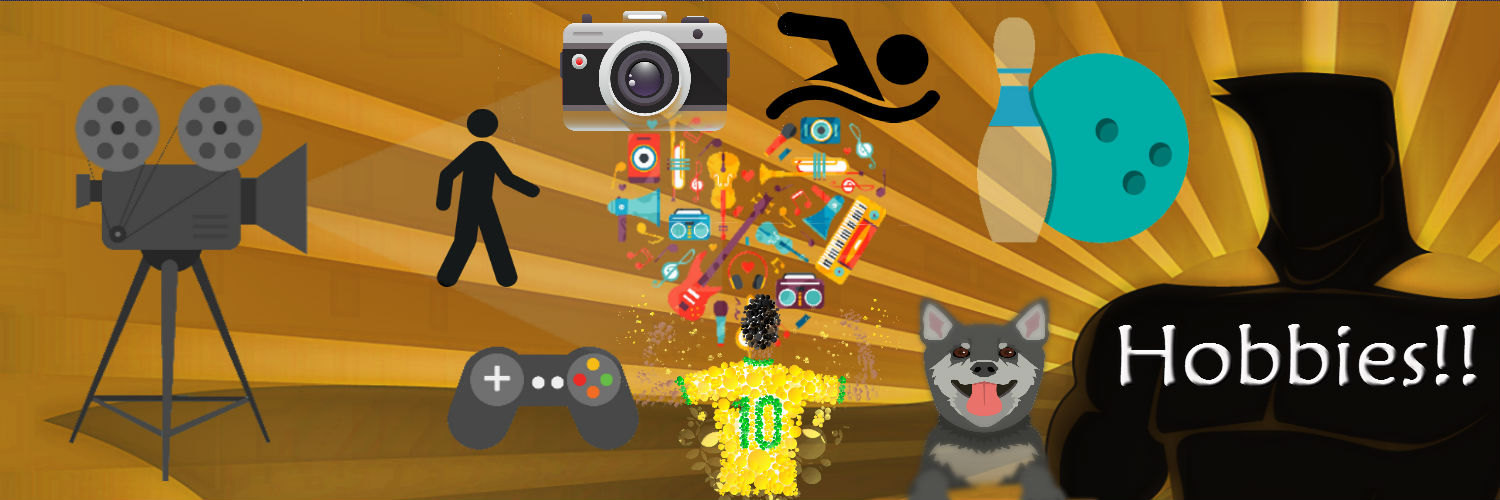
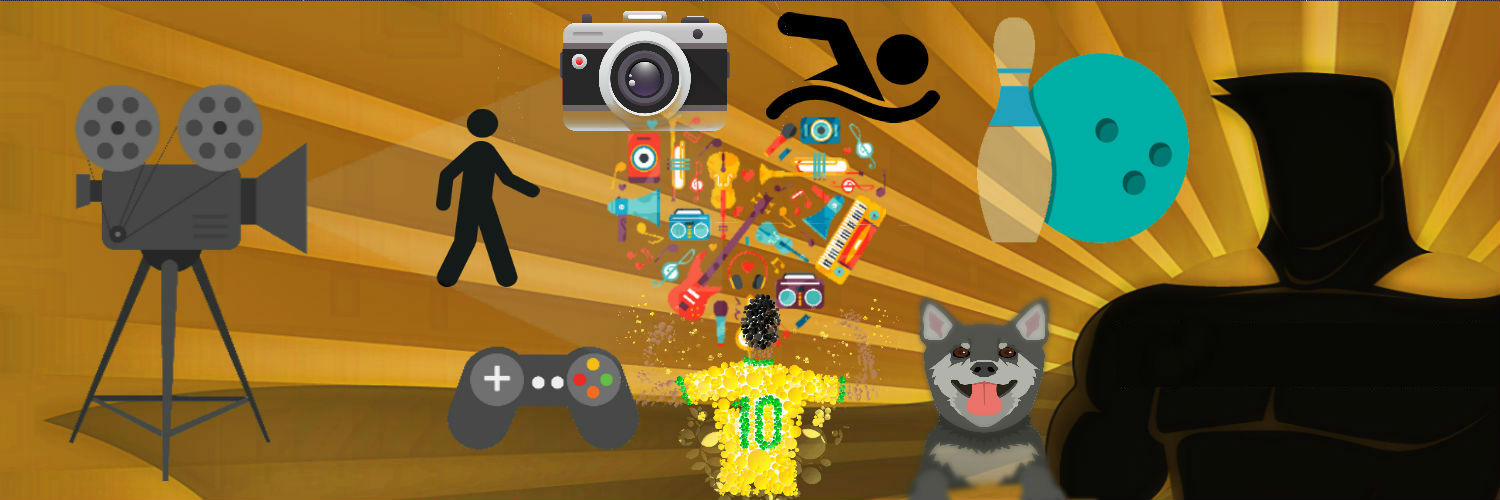
Nueva Imagen

Changed region(s): [[0.736, 0.63, 0.9813, 0.78]]

diff --git a/WebContent/index.html b/WebContent/index.html
@@ -98,21 +98,25 @@
                 </div>
             </div>
             <div class="row text-center">
-                <div class="col-md-4">
-                    <!--<span class="fa-stack fa-4x">
+                    <!--
+                    	 <div class="col-md-4">
+                     	<span class="fa-stack fa-4x">
                         <i class="fa fa-circle fa-stack-2x text-primary"></i>
                         <i class="fa fa-shopping-cart fa-stack-1x fa-inverse"></i>
                     </span>  -->
-                    <h4 class="service-heading">E-Commerce</h4>
-                    <p class="text-muted">Lorem ipsum dolor sit amet, consectetur adipisicing elit. Minima maxime quam architecto quo inventore harum ex magni, dicta impedit.</p>
+                    <img class="img-circle" height="200" width="200" src="http://www.inder.gov.co/images/285_pp5g1v8hva_Caminadas%20May-09%20Small.JPG">
+                    <!-- <h4 class="service-heading">E-Commerce</h4> -->
+                    <p class="text-muted">Las Caminadas son una práctica colectiva o individual que consiste en recorrer a pie territorios rurales, urbanos, de reserva o significado ambiental.</p>
                 </div>
                 <div class="col-md-4">
+                    <!-- 
                     <span class="fa-stack fa-4x">
                         <i class="fa fa-circle fa-stack-2x text-primary"></i>
                         <i class="fa fa-laptop fa-stack-1x fa-inverse"></i>
                     </span>
-                    <h4 class="service-heading">Responsive Design</h4>
-                    <p class="text-muted">Lorem ipsum dolor sit amet, consectetur adipisicing elit. Minima maxime quam architecto quo inventore harum ex magni, dicta impedit.</p>
+                     -->
+                    <h4 class="service-heading">Objetivos</h4>
+                    <p class="text-muted">El objetivo de Caminar es aportar al mejoramiento de la calidad de vida de los participantes, las buenas relaciones y el compromiso con el medio ambiente.<p></p>
                 </div>
                 <div class="col-md-4">
                     <span class="fa-stack fa-4x">

diff --git a/WebContent/resources/css/agency.css b/WebContent/resources/css/agency.css
@@ -265,7 +265,7 @@ header {
     text-align: center;
     color: #fff;
     background-attachment: scroll;
-    background-image: url(../img/Hobbies.jpg);
+    background-image: url(../img/Hobbies3.jpg);
     background-position: center center;
     background-repeat: none;
     -webkit-background-size: cover;
